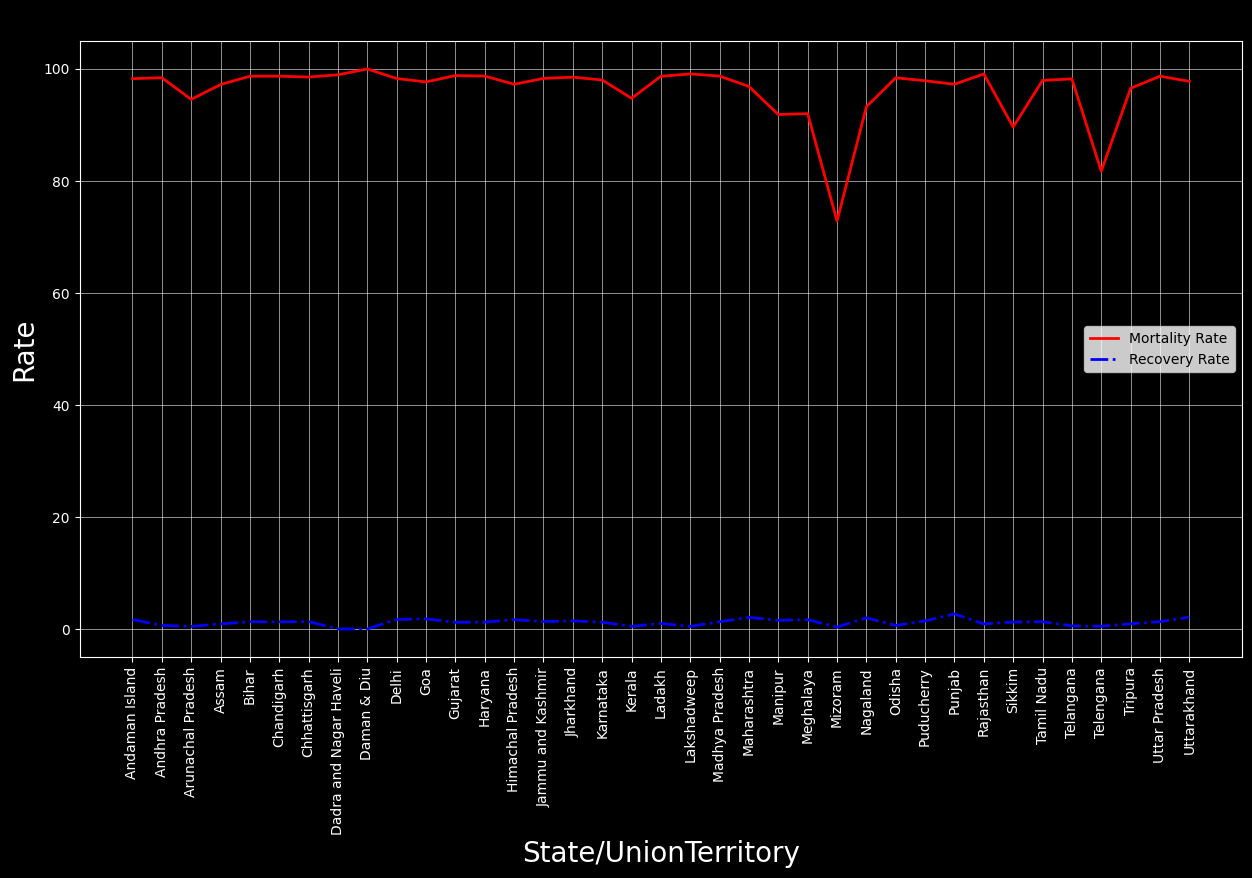
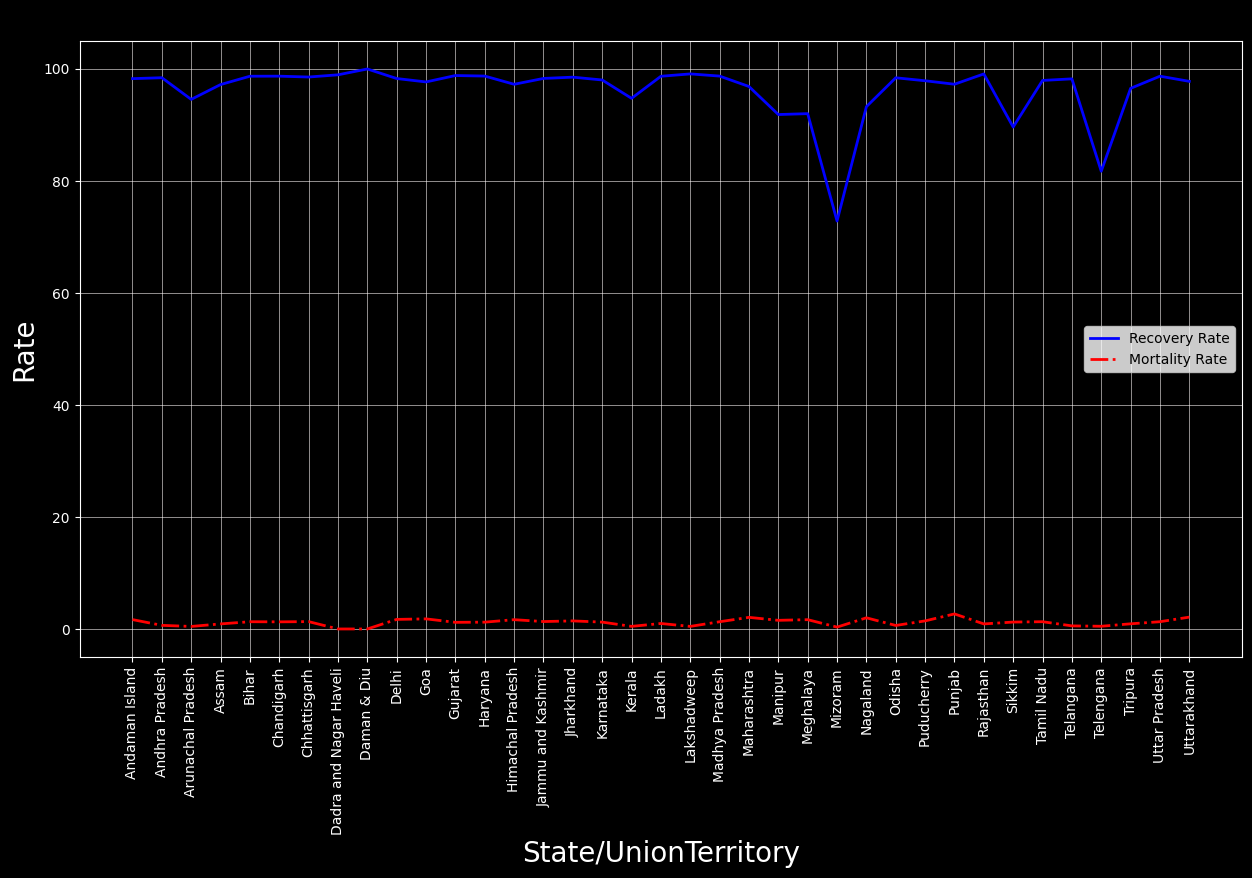
2last

diff --git a/my(1).html b/my(1).html
@@ -59,11 +59,6 @@
 <p> It's more crucial than ever to have easy ways to see and comprehend data in our increasingly data-driven environment. Graphs offer a simple and effective approach to notify the general public and citizens of important COVID-19 data points, such as death rates, mortality rate, which states healthcare perform better and which perform poor in the pandemic, the availability of medical facilities, and much more. Through this webpage we are providing graphs which visualize data of covid –19 so as to present data to non-technical audiences without confusion.</p>
 </div>
 <br>
-<h2><u>Datasets:</u></h2>
-<p>Below are the links of Datasets which we used to plot graphs<p>
-    
-    <br>
-    <br>
     <br>
     
   

diff --git a/graph.py b/graph.py
@@ -79,9 +79,9 @@ for row in my_data:
 for i in range(5):
         print(my_data[i])
 # plotting graph between mortality rate vs recovery rate
-colors ={5:'red', 6:'blue'}
+colors ={5:'blue', 6:'red'}
 lss ={5:'-', 6:'-.'}
-label={5:'Mortality Rate', 6:'Recovery Rate'}
+label={5:'Recovery Rate', 6:'Mortality Rate'}
 x_axis= list(map(lambda r:r[1],my_data))
 plt.figure(figsize=(15,8),facecolor="black")
 ax2=plt.axes()
